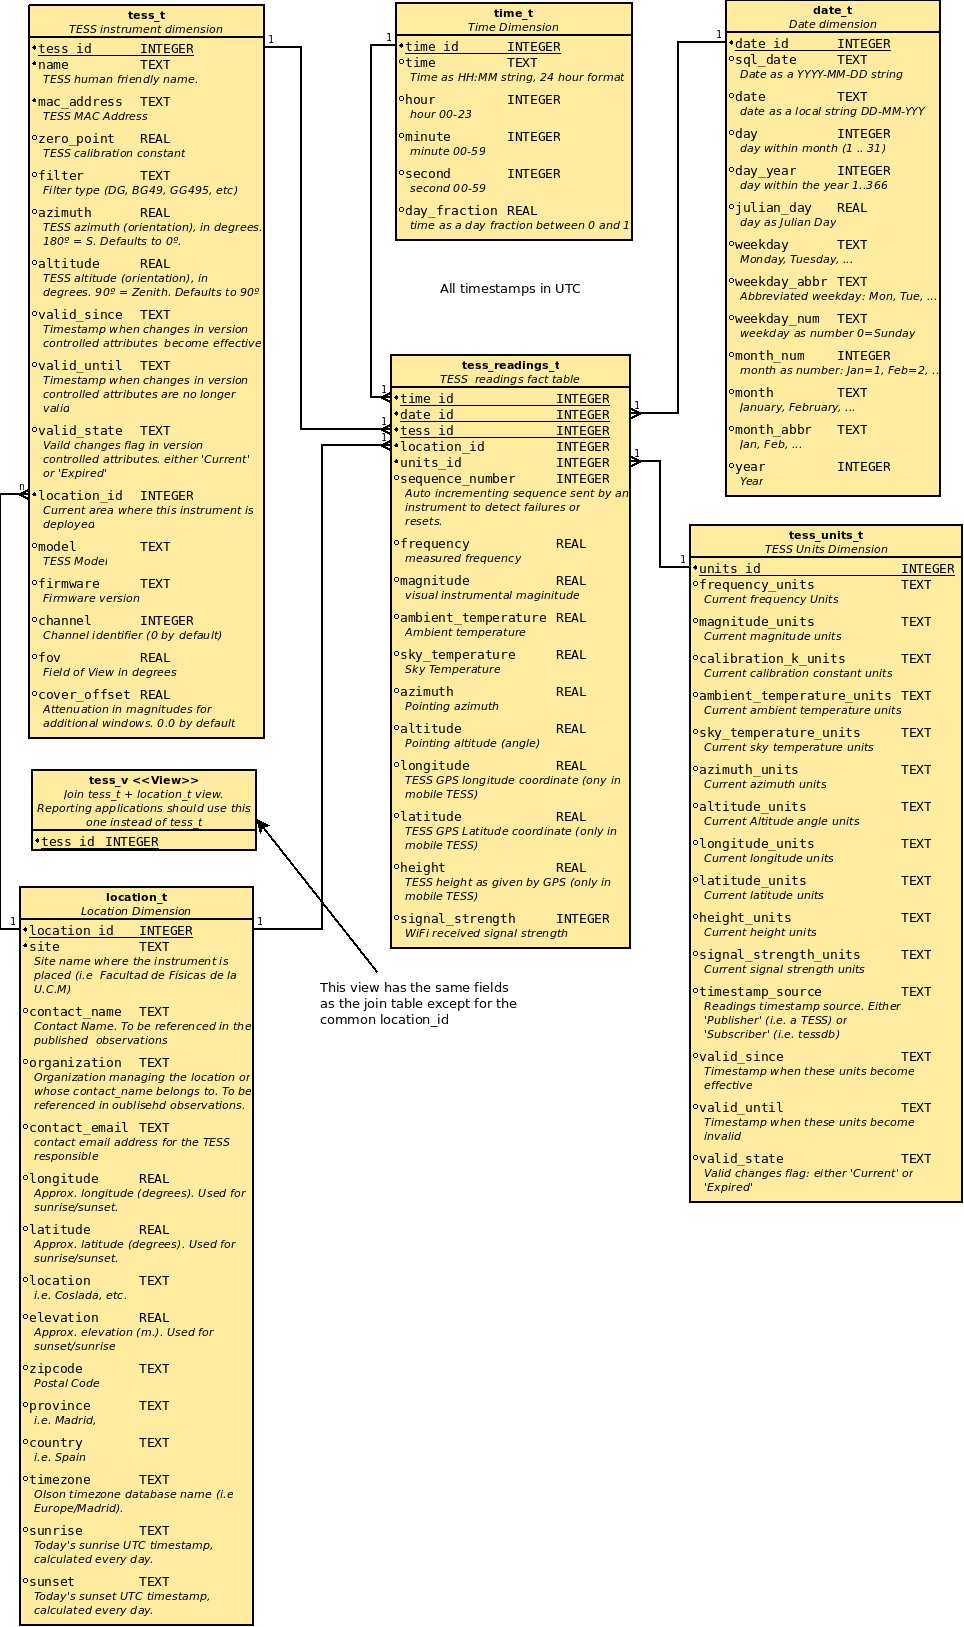
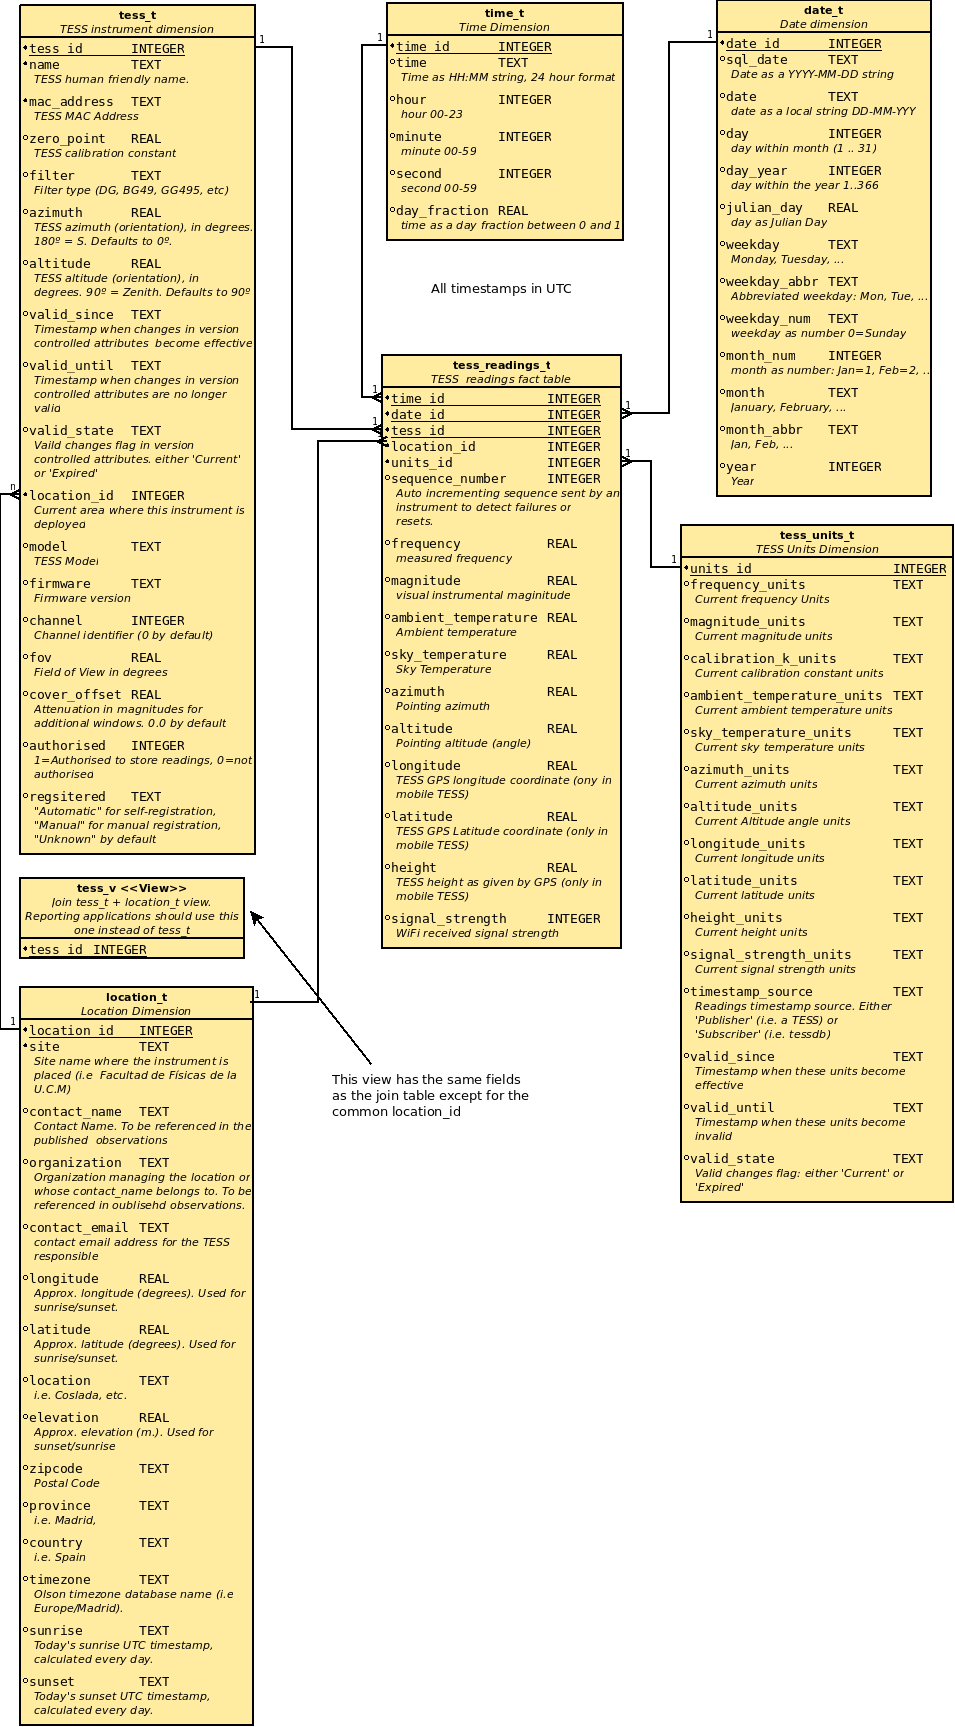
updated documentation

Changed region(s): [[0.0, 0.0, 1.0, 1.0]]

diff --git a/README.md b/README.md
@@ -174,6 +174,8 @@ This dimension holds the current list of TESS instruments.
 * `fov` contains the Field of View, in degrees.
 * `cover_offset` is an additional offset in mag/arcserc^2 to account for an additional optical window attenuation attached tothe TESS itself. Defaults to 0.0.
 * `channel` is the current channel identifier. Default value is 0. Currently, the TESS photometer has only one channel.
+* `authorised` to allow the TESS instrument to store readings on the database. Authorization is a manual process done by the *tess utility*.
+* `registered` shos if the TESS instrument registered itself on the database ("Automatic") or it was done by a manual process ("Manual") using the *tess utility*. The default value is "Unknown" for the TESS instrument registered before adding this feature to the software. It is expected to identify these cases one by one and set them to 'Manual' or 'Automatic'.
 
 ##### Version-controlled Attributes
 These attubutes are version-controlled and a historic of these is maintained. A new change in any of them will generate a new row in the `tess_t` table
@@ -271,8 +273,8 @@ Each location has a latitude (degrees), longitude (degrees) and elevation (meter
 Activating this filter have the following conecuences:
 1. Once a day, at arount 00:00 UTC, all locations will have their sunrise and sunset time computed, according to the local horizon defined (configurable).
 2. Instruments assigned to locations found to be in daytime will have their readings rejected.
-2. ***Instruments not assigned to a known location will have their readings rejected***.
 3. Instruments assigned to Locations with `NULL` or `Unknown` longitude, latitude or elevation columns will have their readings rejected.
+4. ***New***: ***Instruments assigned to an Unknown location will have their readings accepted***. The only way to enable or disable writting to the database is by using the *tess utility*.
 
 ## SQLite Database Maintenance
 
@@ -372,6 +374,33 @@ The most important use of the tess utility is to assign an existing location to 
 If automatic registration fails, this command allows manual creation of a TESS instrument in the database
 
 `tess instrument create {name} {mac} {zero point} {filter}`
+
+### Enabling/Disabling a TESS instrument
+In order for a TESS to have its readings stored in the databae, it need to be enabled (authorised). In previous releases of tessdb this happened automatically when the TESS was assigned to a known location, when the daylingth filter was active. Now this is a separate but important procedure
+
+`tess instrument enable stars1`
+
+```
++--------+--------------------------+--------------+
+| TESS   | Site                     |   Authorised |
++========+==========================+==============+
+| stars1 | Laboratorio de Cristóbal |            1 |
++--------+--------------------------+--------------+
+```
+
+
+If, for soem reason, we must avoid a given TESS to store its readings, we proceed and disable it.
+
+`tess instrument disable stars1`
+
+```
++--------+--------------------------+--------------+
+| TESS   | Site                     |   Authorised |
++========+==========================+==============+
+| stars1 | Laboratorio de Cristóbal |            0 |
++--------+--------------------------+--------------+
+```
+
 
 ### Renaming a TESS instrument
 If for some reason, an instrument needs to change the friendly user name, this command allows you to do so.
